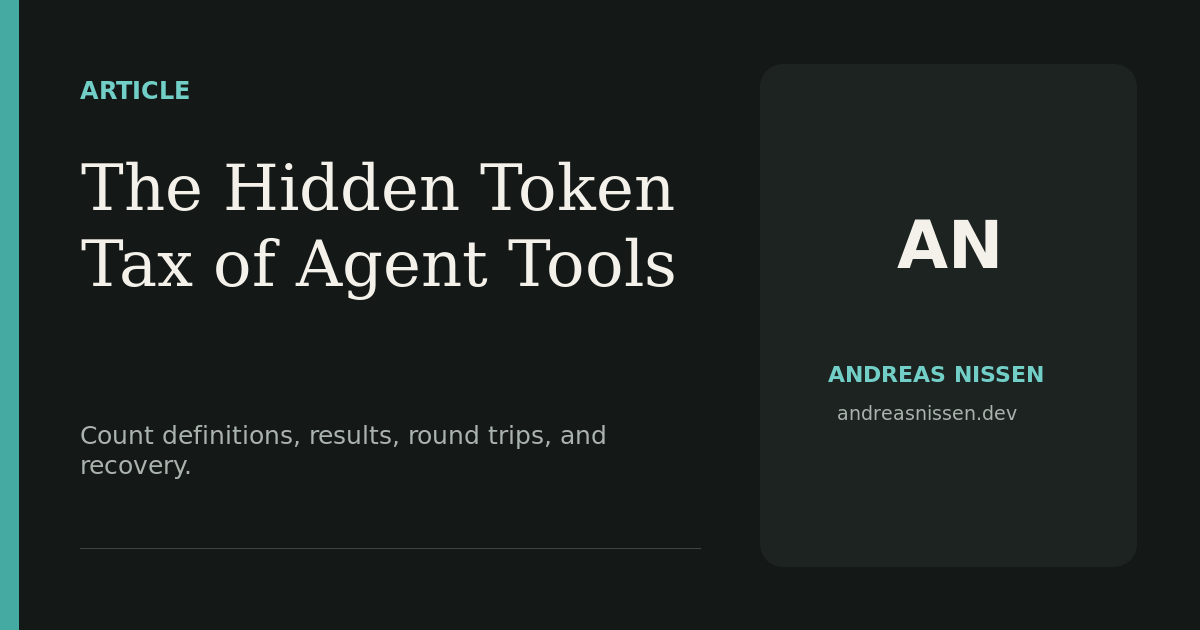
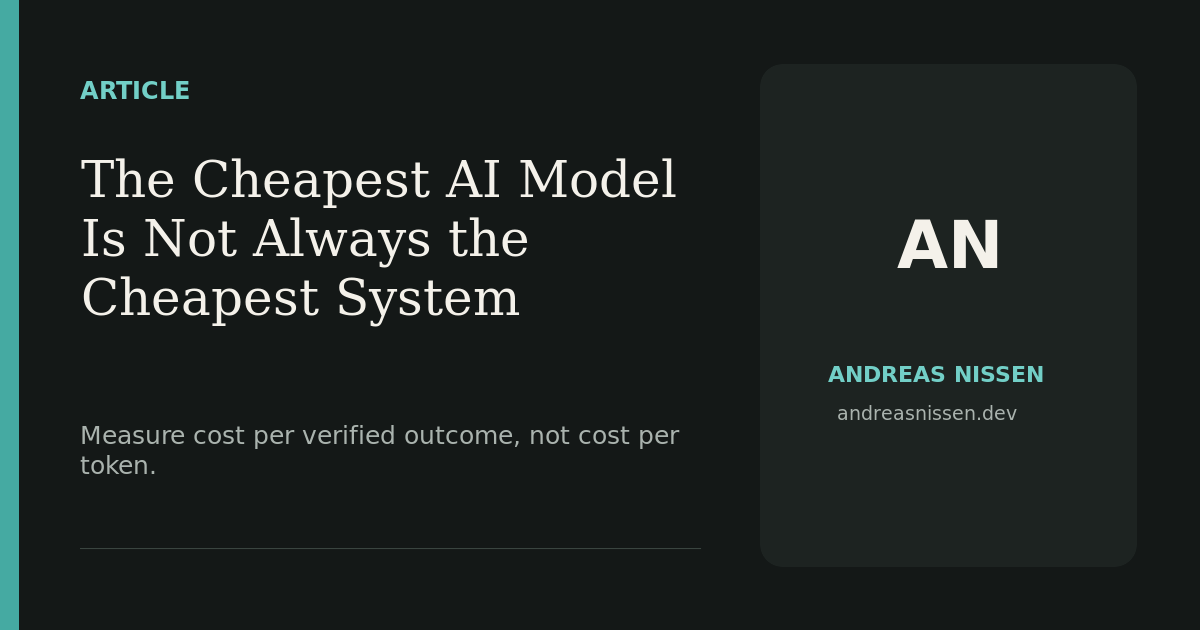
Rename token cost article around its core claim

Changed region(s): [[0.0617, 0.2413, 0.5858, 0.5127], [0.0617, 0.6635, 0.555, 0.754]]

diff --git a/content/projects/runbook-relay.md b/content/projects/runbook-relay.md
@@ -134,4 +134,4 @@ This is a reference application, not a production operations console. A producti
 
 ## Related writing
 
-[From Browser Tool to Governed Workflow](/writing/from-browser-tool-to-governed-workflow/) explains the control-plane migration. [Screen Use vs WebMCP](/writing/screen-use-vs-webmcp/) compares interface paths without inventing benchmark results. [The Hidden Token Tax of Agent Tools](/writing/hidden-token-tax-agent-tools/) connects tool design to outcome-based efficiency measurement.
+[From Browser Tool to Governed Workflow](/writing/from-browser-tool-to-governed-workflow/) explains the control-plane migration. [Screen Use vs WebMCP](/writing/screen-use-vs-webmcp/) compares interface paths without inventing benchmark results. [The Cheapest AI Model Is Not Always the Cheapest System](/writing/hidden-token-tax-agent-tools/) connects tool design to outcome-based efficiency measurement.

diff --git a/content/writing/hidden-token-tax-agent-tools.md b/content/writing/hidden-token-tax-agent-tools.md
@@ -1,5 +1,5 @@
 ---
-title: "The Hidden Token Tax of Agent Tools"
+title: "The Cheapest AI Model Is Not Always the Cheapest System"
 date: 2026-08-31
 description: "The cheapest model is not always the cheapest AI system. Agent cost spans tool definitions, selection, results, round trips, and recovery."
 primaryTopic: "Agent architecture"
@@ -20,7 +20,7 @@ proofLinks:
   - label: "Read the related tool-interface analysis"
     url: "/writing/screen-use-vs-webmcp/"
 socialImage: "/images/social/hidden-token-tax.png"
-socialImageAlt: "The Hidden Token Tax of Agent Tools, an article by Andreas Nissen."
+socialImageAlt: "The Cheapest AI Model Is Not Always the Cheapest System, an article by Andreas Nissen."
 tags:
   - token efficiency
   - MCP

diff --git a/content/writing/screen-use-vs-webmcp.md b/content/writing/screen-use-vs-webmcp.md
@@ -146,4 +146,4 @@ The strongest design keeps both views aligned. The human sees evidence, state, a
 
 The goal is not to remove the screen. It is to stop making pixels carry the entire control contract.
 
-[The Hidden Token Tax of Agent Tools](/writing/hidden-token-tax-agent-tools/) develops the measurement model for definitions, results, round trips, recovery, and verified outcomes.
+[The Cheapest AI Model Is Not Always the Cheapest System](/writing/hidden-token-tax-agent-tools/) develops the measurement model for definitions, results, round trips, recovery, and verified outcomes.
